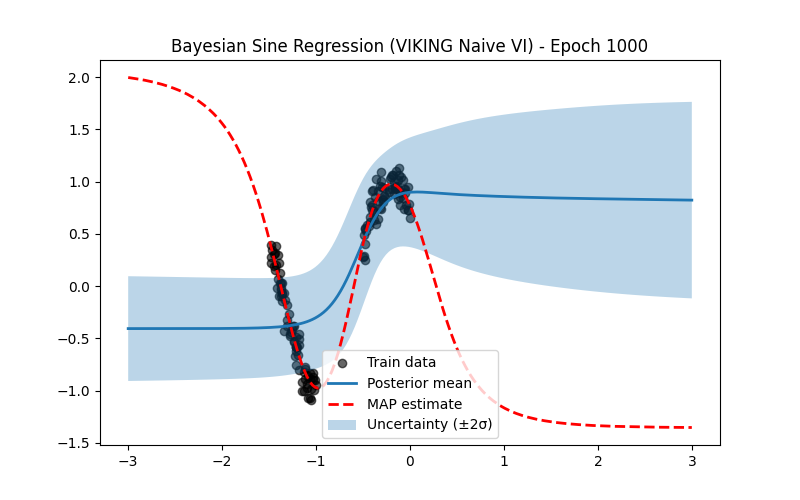
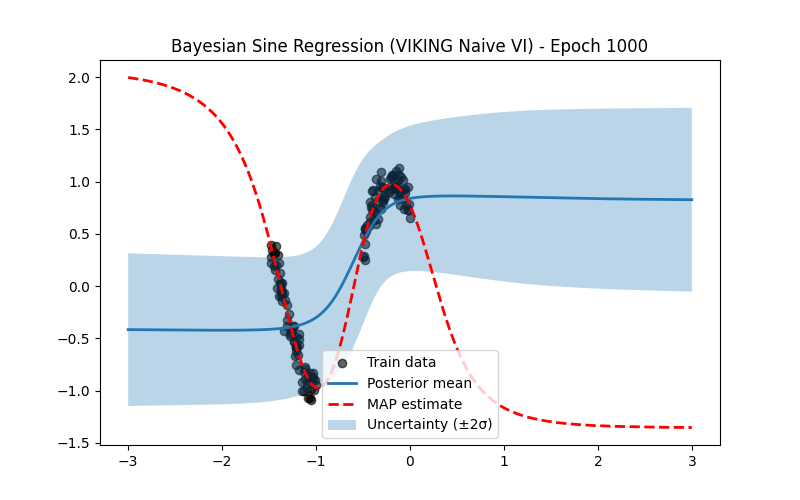
meeting changes

diff --git a/experiments/VIKING_sine_curve_GGN.py b/experiments/VIKING_sine_curve_GGN.py
@@ -7,12 +7,14 @@ import sys
 
 sys.path.append(os.path.abspath(os.path.join(os.path.dirname(__file__), '..')))
 
+from src.models.sinenet import SineNet
 from src.sampling import calculate_UUt, calculate_UUt_svd, sample_theta
 from src.utils import vectorize_nn
 from src.losses import sse_loss
 from src.plotting.naive_sine_plots import plot_bayesian_samples_with_mean, plot_mean_bayesian_with_MAP, predict_and_plot_bayesian_mean_for_epoch
+from src.data.sinedata import generate_data, generate_sine_data
 
-N = 150
+N = 10
 SEED = 42
 NOISE_VAR = 0.96
 
@@ -87,42 +89,49 @@ def loss_fn(params_opt, model_fn_vec, UUt, x, y, sample_key, prior_vec, rank_ker
     rec_term = reconstruction_term(model_fn_vec, thetas, x, y)
 
     # KL term
-    kl = KL_term(
+    """ kl = KL_term(
         prior_vec=prior_vec,
         theta_hat=params_opt["theta"],
         sigma_ker=params_opt["sigma_ker"],
         sigma_im=params_opt["sigma_im"],
         eps_samples=eps_samples,
         eps_ker_samples=eps_ker_samples
-    )
+    ) """
 
-    """ kl = KL_term_alpha(
+    kl = KL_term_alpha(
         theta_hat=params_opt["theta"],
         sigma_ker=params_opt["sigma_ker"],
         sigma_im=params_opt["sigma_im"],
         eps_samples=eps_samples,
         eps_ker_samples=eps_ker_samples,
         rank_ker = rank_ker
-    ) """
+    )
 
     elbo = rec_term - kl
     
     return -elbo, (rec_term, kl)
 
 def main():
-    prior_key, post_key = jax.random.split(jax.random.PRNGKey(SEED), num=2)
+    prior_key, post_key, model_key, data_key = jax.random.split(jax.random.PRNGKey(SEED), num=4)
 
     with open("./checkpoints/sine_regression.pickle", "rb") as f:
         checkpoint = pickle.load(f)
 
-    x_train = checkpoint["train_stats"]["x_train"]
-    y_train = checkpoint["train_stats"]["y_train"]
-    params_dict = checkpoint["params"]
-    model = checkpoint["train_stats"]["model"]
-    params_vec, unflatten, model_fn_vec = vectorize_nn(model.apply, params_dict)
+    #x_train = checkpoint["train_stats"]["x_train"]
+    #y_train = checkpoint["train_stats"]["y_train"]
+    x_train, y_train = generate_data(n_train=10, key=data_key)
 
-    x_test = jnp.linspace(-3, 3, 200).reshape(-1, 1)
-    y_map = model_fn_vec(params_vec, x_test).squeeze()
+    params_dict_map = checkpoint["params"]
+    model_map = checkpoint["train_stats"]["model"]
+
+    model_new = SineNet(out_dims=1, hidden_dim=8 ,num_layers=2)
+    params_new = model_new.init(model_key, x_train[:2])
+
+    params_vec, unflatten, model_fn_vec = vectorize_nn(lambda p, x: model_new.apply(p, x), params_new)
+    params_map_vec, unflatten, model_map_fn_vec = vectorize_nn(model_map.apply, params_dict_map)
+
+    x_test = jnp.linspace(-2, 1, 200).reshape(-1, 1)
+    y_map = model_map_fn_vec(params_map_vec, x_test).squeeze()
 
     prior_vec = jnp.clip(jax.random.normal(prior_key, (params_vec.shape[0],)) ** 2, 0.1, 10.0)
 
@@ -132,7 +141,7 @@ def main():
     _, sample_key = jax.random.split(jax.random.PRNGKey(SEED))
 
     params_opt = {
-        "prior_vec": prior_vec,
+        #"prior_vec": prior_vec,
         "theta": params_vec,
         "sigma_ker": jnp.log(sigma_kernel),
         "sigma_im": jnp.log(sigma_image),
@@ -162,6 +171,7 @@ def main():
         if epoch % log_every == 0 or epoch == num_epochs - 1:
             print(f"[Epoch {epoch}] Loss (-ELBO): {loss:.4f}")
             print(f"Rec term = {rec_term:.4f} ||| KL Term = {kl:.4f}")
+            print(f"Sigma kernel: {jnp.exp(params_opt_current['sigma_ker']):.4f}, Sigma image: {jnp.exp(params_opt_current['sigma_im']):.4f}, Alpha: {(1.0/ (jnp.exp(params_opt_current['sigma_ker']) ** 2)):.2f}")
         
         if epoch in plot_epochs:
             predict_and_plot_bayesian_mean_for_epoch(post_key, model_fn_vec, params_opt_current, UUt, y_map, x_train, y_train, epoch)

diff --git a/src/plotting/naive_sine_plots.py b/src/plotting/naive_sine_plots.py
@@ -46,7 +46,7 @@ def plot_bayesian_samples_with_mean(x_train, y_train, x_test, y_mean, y_preds):
 
 
 def predict_and_plot_bayesian_mean_for_epoch(post_key, model_fn_vec, params_opt_current, UUt, y_map, x_train, y_train, epoch):
-    x_test = jnp.linspace(-3, 3, 200).reshape(-1, 1)
+    x_test = jnp.linspace(-2, 1, 200).reshape(-1, 1)
     thetas, _, _ = sample_theta(post_key, 50, UUt, params_opt_current["theta"], params_opt_current["sigma_ker"], params_opt_current["sigma_im"])
     y_preds = jax.vmap(lambda t: model_fn_vec(t, x_test))(thetas)
     y_mean, y_std = jnp.mean(y_preds, axis=0).squeeze(), jnp.std(y_preds, axis=0).squeeze()
@@ -67,4 +67,4 @@ def predict_and_plot_bayesian_mean_for_epoch(post_key, model_fn_vec, params_opt_
 
     plt.legend()
     plt.title(f"Bayesian Sine Regression (VIKING Naive VI) - Epoch {epoch}")
-    plt.savefig(f"results/plots/per_epoch/prior_vec/Mean_Bayesian_with_MAP_epoch_{epoch}.png")
+    plt.savefig(f"results/plots/per_epoch/alpha/Mean_Bayesian_with_MAP_epoch_{epoch}.png")

diff --git a/src/sampling.py b/src/sampling.py
@@ -18,9 +18,9 @@ def compute_J(params_vec, model_fn, x_train, y_train):
         y_pred = model_fn(p, x)
         return jnp.square(y_pred - y).sum()  # SSE per sample
     
+    lmbd = lambda p: jax.vmap(per_sample_loss, in_axes=(None, 0, 0))(p, x_train, y_train)
     # Vectorize over data points
-    per_sample_grad = jax.vmap(jax.grad(per_sample_loss), in_axes=(None, 0, 0))
-    J = per_sample_grad(params_vec, x_train, y_train)  # (N, D)
+    J = jax.jacfwd(lmbd)(params_vec)  # (N, D)
     return J
 
 #----------------------------------------------------------

diff --git a/src/data/sinedata.py b/src/data/sinedata.py
@@ -17,7 +17,8 @@ def generate_data(n_train=100, noise_var = 0.01, key=jax.random.PRNGKey(0)):
 def generate_sine_data(n_train, key):
     std = jnp.linspace(1e-3, 1e0, n_train)
     x = jnp.linspace(0.35, 0.65, n_train)
-    y = 5 * jnp.sin(10 * x)
+    #y = 5 * jnp.sin(10 * x)
 
+    y = 0.1 * jnp.sin(10 * x)
     z = jax.random.normal(key, shape=y.shape)
     return x, y + std * z
